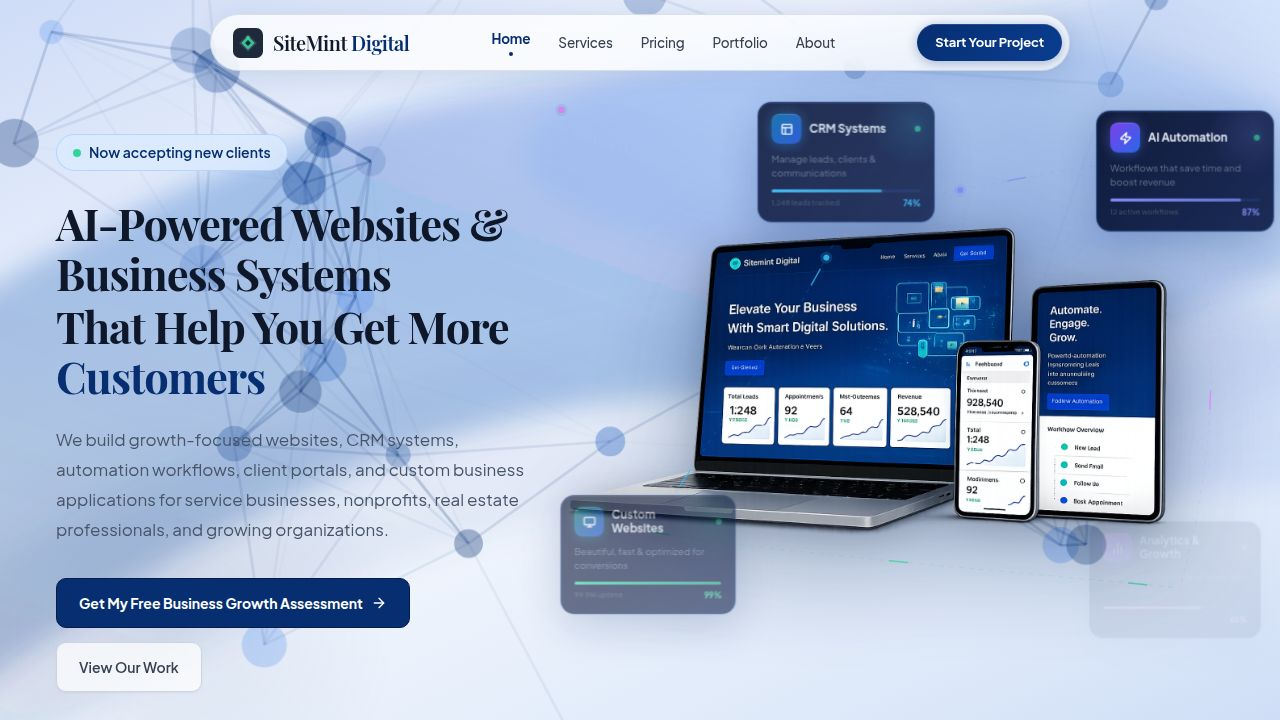
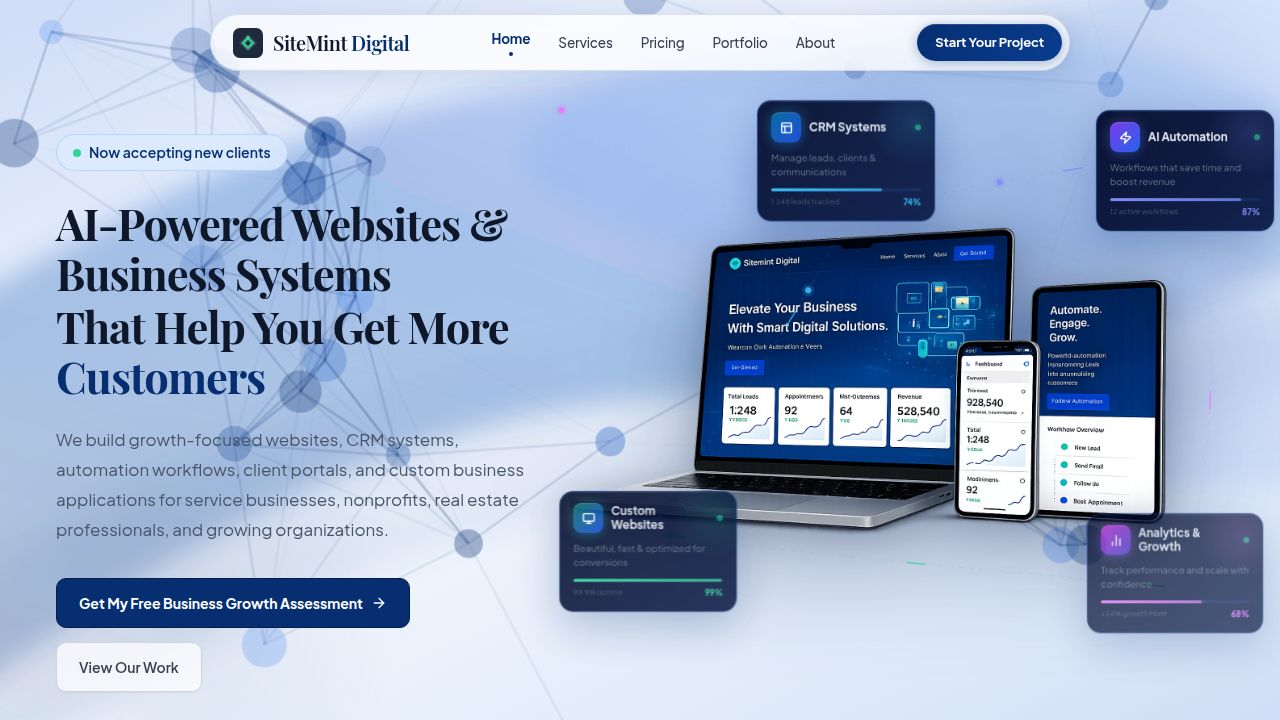
Update CRM styling to use design tokens and fix empty states
Replace hardcoded hex colors in CrmLayout.tsx with design tokens, add a computed-insight marker to CrmBehavioralIntelligence.tsx, and add action buttons to empty states in CrmExecutiveDashboard.tsx.

Replit-Commit-Author: Agent
Replit-Commit-Session-Id: 1157ecf7-3c02-4166-92d8-f4d7d92c0389
Replit-Commit-Checkpoint-Type: full_checkpoint
Replit-Commit-Event-Id: f64cd5af-5807-4eb9-881d-9b5f38bd9405
Replit-Commit-Screenshot-Url: https://storage.googleapis.com/screenshot-production-us-central1/a4d0d5f2-52ef-4ef5-bb8c-7d4810b97340/1157ecf7-3c02-4166-92d8-f4d7d92c0389/N0l6PX8
Replit-Helium-Checkpoint-Created: true

diff --git a/artifacts/web-agency/src/index.css b/artifacts/web-agency/src/index.css
@@ -57,6 +57,10 @@
   --color-sidebar-accent-border: var(--sidebar-accent-border);
   --color-sidebar-ring: hsl(var(--sidebar-ring));
 
+  --color-crm-sidebar: hsl(var(--crm-sidebar));
+  --color-crm-header: hsl(var(--crm-header));
+  --color-crm-content: hsl(var(--crm-content));
+
   --font-sans: var(--app-font-sans);
   --font-serif: var(--app-font-serif);
   --font-mono: var(--app-font-mono);
@@ -143,6 +147,12 @@
   --chart-4: 218 25% 90%;
   --chart-5: 218 15% 80%;
 
+  /* CRM admin shell — fixed dark chrome, does not follow light/dark mode.
+     Dedicated tokens because no existing light-mode token maps to this shade. */
+  --crm-sidebar: 222 34% 15%;
+  --crm-header: 222 47% 11%;
+  --crm-content: 210 17% 95%;
+
   --app-font-sans: 'Plus Jakarta Sans', sans-serif;
   --app-font-serif: 'Playfair Display', serif;
   --app-font-mono: Menlo, monospace;
@@ -219,6 +229,11 @@
   --chart-3: 40 10% 70%;
   --chart-4: 220 10% 15%;
   --chart-5: 220 10% 20%;
+
+  /* CRM admin shell keeps the same fixed dark chrome in dark mode. */
+  --crm-sidebar: 222 34% 15%;
+  --crm-header: 222 47% 11%;
+  --crm-content: 210 17% 95%;
 
   --shadow-2xs: 0px 2px 0px 0px hsl(0 0% 0% / 0.1);
   --shadow-xs: 0px 2px 0px 0px hsl(0 0% 0% / 0.1);
@@ -349,5 +364,26 @@
   .border.active-elevate-2:not(.no-active-interaction-elevate)::after,
   .border.hover-elevate:not(.no-hover-interaction-elevate)::after {
     inset: -1px;
+  }
+
+  /**
+   * CRM computed-insight marker.
+   * Rule: any card presenting a COMPUTED/derived insight (DISC, Lead Health
+   * Score, Communication Intelligence, Behavioral Intelligence, Lead DNA)
+   * gets this marker. Plain CRUD cards (contact info, task lists, deal
+   * amounts) do not get it. Uses the emerald chart-2 token so it stays in
+   * sync with the theme instead of a hardcoded color.
+   */
+  .crm-insight-card {
+    border-left-width: 3px;
+    border-left-color: hsl(var(--chart-2));
+  }
+
+  .crm-insight-dot {
+    display: inline-block;
+    width: 6px;
+    height: 6px;
+    border-radius: 9999px;
+    background-color: hsl(var(--chart-2));
   }
 }

diff --git a/artifacts/web-agency/src/pages/crm/CrmExecutiveDashboard.tsx b/artifacts/web-agency/src/pages/crm/CrmExecutiveDashboard.tsx
@@ -460,6 +460,9 @@ export default function CrmExecutiveDashboard() {
                 <DollarSign className="w-8 h-8 text-gray-200 mb-2" />
                 <p className="text-sm">No revenue data yet</p>
                 <p className="text-xs text-muted-foreground mt-1">Close deals to see monthly trends</p>
+                <Link href="/admin/crm/deals">
+                  <button className="mt-2 text-xs text-emerald-600 hover:text-emerald-700">View pipeline</button>
+                </Link>
               </div>
             ) : (
               <ResponsiveContainer width="100%" height={200}>
@@ -629,6 +632,11 @@ export default function CrmExecutiveDashboard() {
                 <MessageSquare className="w-10 h-10 text-gray-200 mx-auto mb-3" />
                 <p className="text-sm font-medium text-muted-foreground">No messages yet</p>
                 <p className="text-xs text-muted-foreground mt-1">SMS and calls will appear here once Twilio is connected.</p>
+                <Link href="/admin/crm/inbox">
+                  <button className="mt-3 text-sm bg-emerald-600 text-white px-4 py-1.5 rounded-lg hover:bg-emerald-700 transition-colors">
+                    Open Inbox
+                  </button>
+                </Link>
               </div>
             ) : (
               <div className="divide-y divide-gray-50">

diff --git a/artifacts/web-agency/src/pages/crm/CrmLayout.tsx b/artifacts/web-agency/src/pages/crm/CrmLayout.tsx
@@ -1027,7 +1027,7 @@ export function CrmLayout({ children }: { children: React.ReactNode }) {
   const SIDEBAR_W = sidebarExpanded ? "w-60" : "w-0";
 
   return (
-    <div className="h-screen flex flex-col overflow-hidden bg-[#f1f3f5]">
+    <div className="h-screen flex flex-col overflow-hidden bg-crm-content">
 
       {/* ── Modals ── */}
       {modal === "email"  && <EmailComposeModal leads={allLeads} templates={templates} onClose={() => setModal(null)} />}
@@ -1035,7 +1035,7 @@ export function CrmLayout({ children }: { children: React.ReactNode }) {
       {modal === "person" && <NewPersonModal leads={allLeads} onClose={() => setModal(null)} onCreated={loadLeads} />}
 
       {/* ── Topbar ── */}
-      <header className="h-11 bg-[#0f172a] flex items-center gap-2 px-3 shrink-0 z-50 relative">
+      <header className="h-11 bg-crm-header flex items-center gap-2 px-3 shrink-0 z-50 relative">
 
         {/* Mobile hamburger */}
         <button onClick={() => setMobileMenuOpen(o => !o)}
@@ -1150,7 +1150,7 @@ export function CrmLayout({ children }: { children: React.ReactNode }) {
       <div className="flex flex-1 overflow-hidden">
 
         {/* ── Left Sidebar (desktop/tablet) ── */}
-        <aside className={`hidden lg:flex flex-col bg-[#1a2235] shrink-0 transition-all duration-200 overflow-hidden ${SIDEBAR_W}`}>
+        <aside className={`hidden lg:flex flex-col bg-crm-sidebar shrink-0 transition-all duration-200 overflow-hidden ${SIDEBAR_W}`}>
           <SidebarContent
             location={location}
             expandedGroups={expandedGroups}
@@ -1164,7 +1164,7 @@ export function CrmLayout({ children }: { children: React.ReactNode }) {
             {/* Backdrop */}
             <div className="absolute inset-0 bg-black/50" onClick={() => setMobileMenuOpen(false)} />
             {/* Drawer */}
-            <div className="relative w-72 max-w-[85vw] bg-[#1a2235] h-full flex flex-col z-10 shadow-2xl">
+            <div className="relative w-72 max-w-[85vw] bg-crm-sidebar h-full flex flex-col z-10 shadow-2xl">
               <div className="flex items-center justify-between px-4 py-3 border-b border-white/10">
                 <SiteMintLogo variant="light" iconSize={18} />
                 <button onClick={() => setMobileMenuOpen(false)} className="text-white/50 hover:text-white transition-colors">

diff --git a/artifacts/web-agency/src/pages/crm/CrmBehavioralIntelligence.tsx b/artifacts/web-agency/src/pages/crm/CrmBehavioralIntelligence.tsx
@@ -84,9 +84,10 @@ function Panel({ title, icon: Icon, tone, signals, onOpen, emptyText }: {
   signals: LeadSignal[]; onOpen: (id: number) => void; emptyText: string;
 }) {
   return (
-    <div className="bg-white rounded-xl border border-gray-200 shadow-sm overflow-hidden">
+    <div className="crm-insight-card bg-white rounded-xl border border-gray-200 shadow-sm overflow-hidden">
       <div className="flex items-center gap-2 px-4 py-3 border-b border-gray-200 bg-gray-50">
         <Icon className={`w-4 h-4 ${tone}`} />
+        <span className="crm-insight-dot" />
         <h3 className="font-semibold text-sm text-foreground">{title}</h3>
         <span className="text-xs text-muted-foreground ml-auto">{signals.length}</span>
       </div>